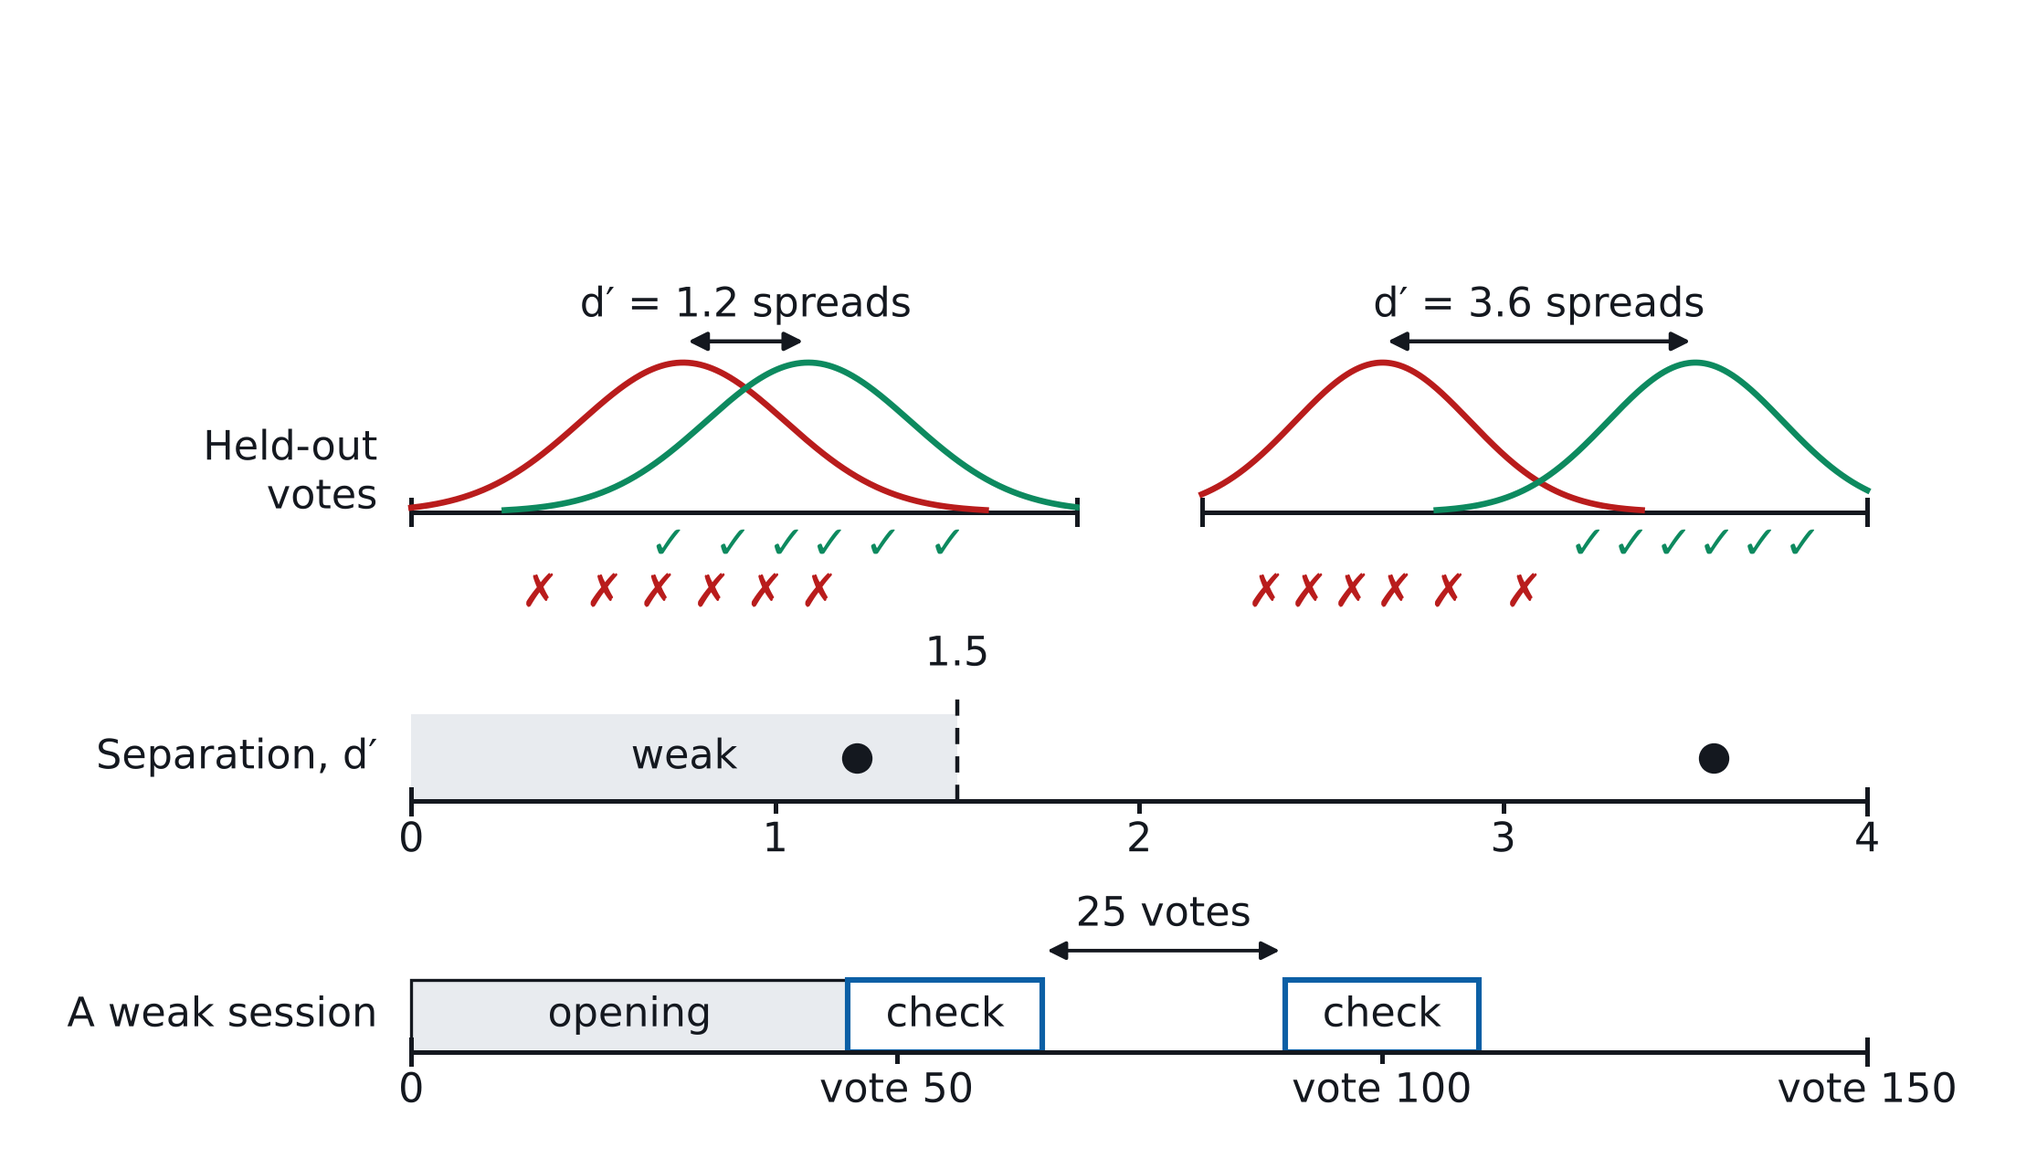
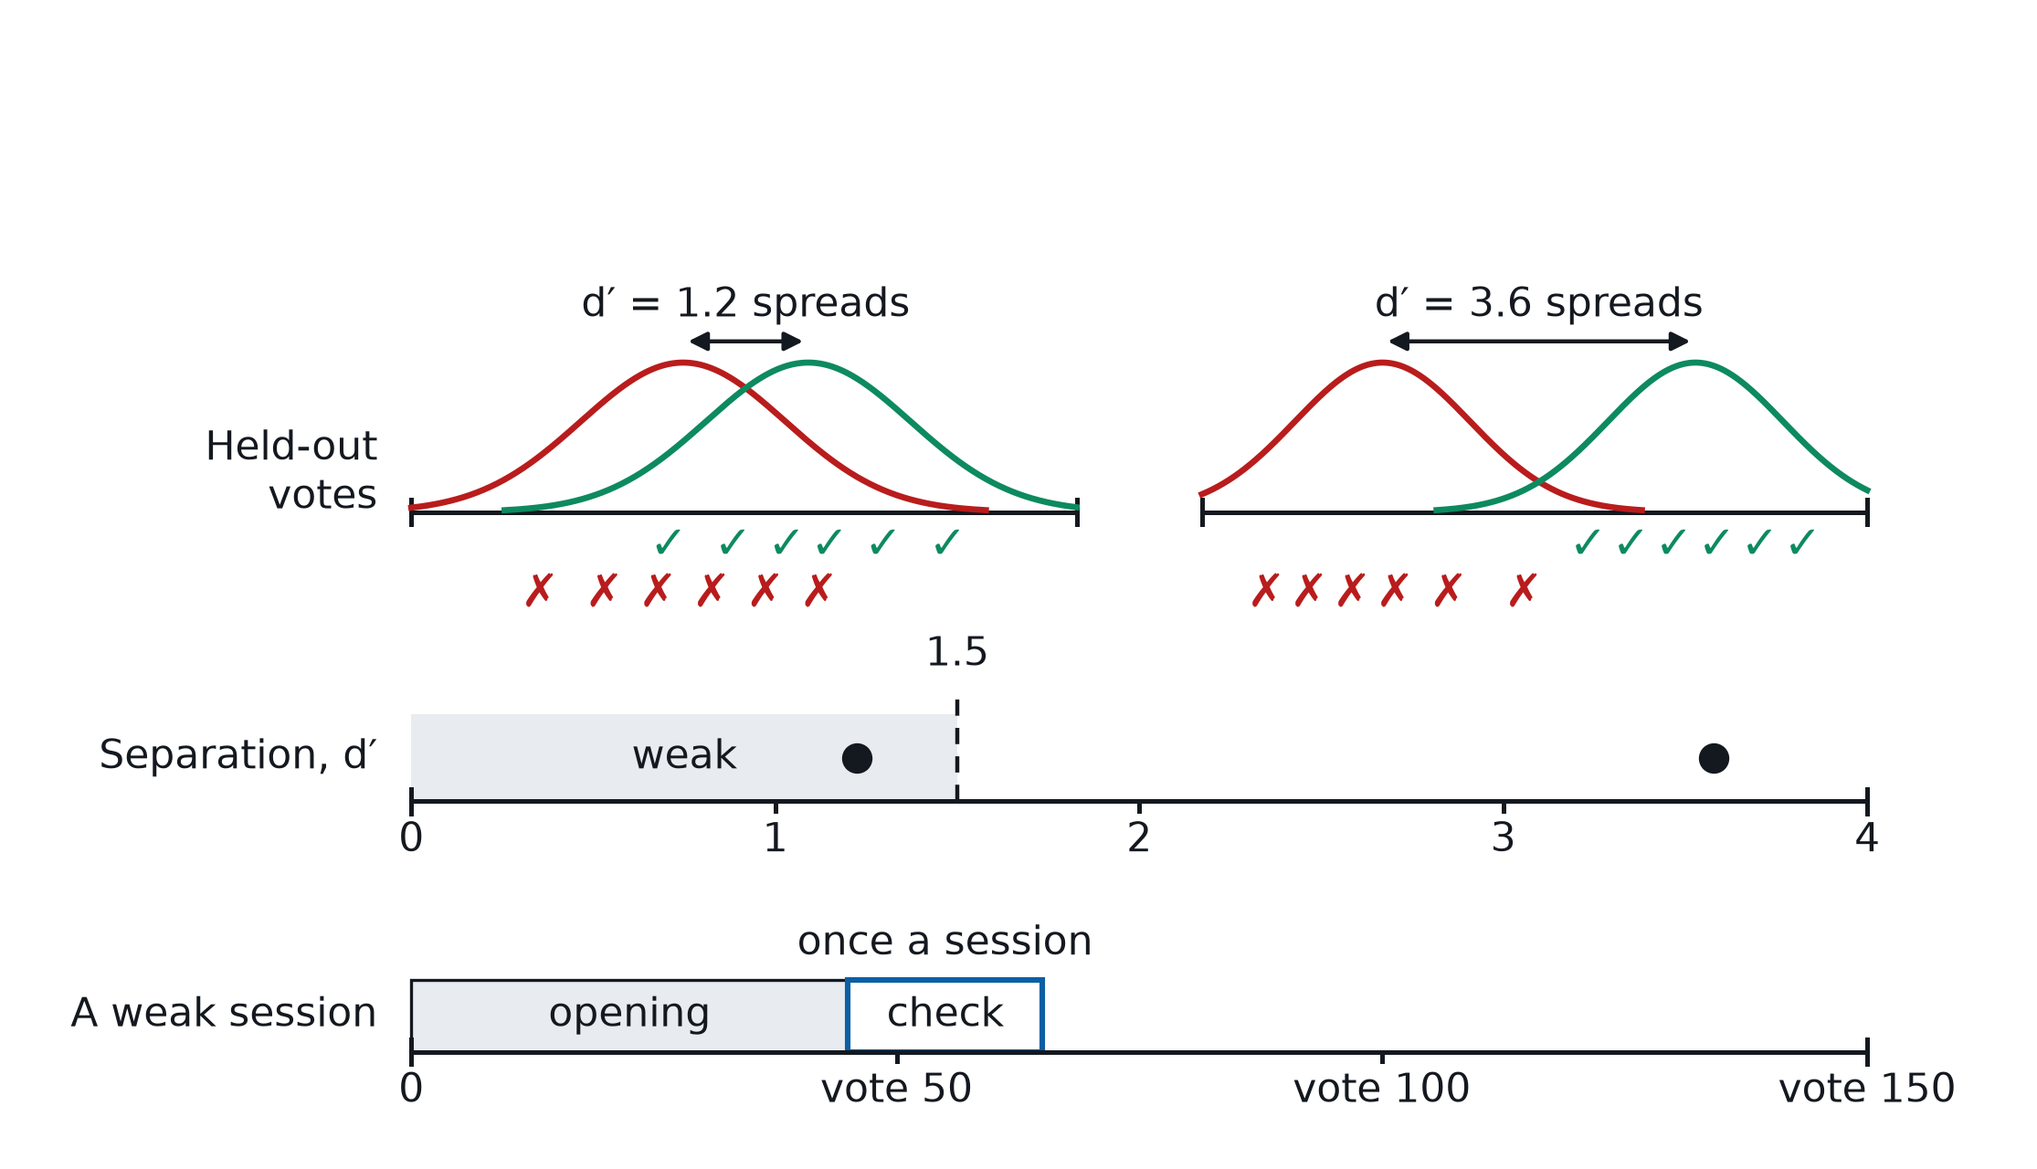
#4909: ship the weak check once a session (owner's choice)
New vtscore.training.thresholds.WEAK_CHECK_REPEAT (None) is weak_check_due's
default cooldown: the weak-separation check is due only while no check has
ended, so Autopilot prompts it at most once a session. WEAK_CHECK_COOLDOWN
stays 25 and now governs only the check before Done (done_check_due). The
harness follows (simulate_voting_iterations weak_repeat defaults to 0, once),
preflight's shipped weak_repeat is 0, and the study launcher pins r25 to 25.

Priced in this PR's report: once matched or beat again-after-25 over clicks
0-200 (+0.0006 / +0.0013 mean F-beta at beta 1 / 4), level after the closing
check, Done at the same click and F-beta, for 24-25 fewer of 200 clicks spent
checking. The server and frontend only read check_due, so neither changes
beyond docs; the Weak Spot slide now draws one check.

Claude-Session: https://claude.ai/code/session_01Q8KvKjgBL7pTwLPQT1g77M

diff --git a/frontend/src/app/utils/line-balance.ts b/frontend/src/app/utils/line-balance.ts
@@ -93,8 +93,8 @@ export interface LineBalance {
   separation: number | null;
   /**
    * The labels separate weakly enough that a spot check is due (#4496): Autopilot runs one. The
-   * server decides (`weak_check_due`): d' below 1.5, from 10 votes on, and 25 votes after the last
-   * check ended.
+   * server decides (`weak_check_due`): d' below 1.5, from 10 votes on, and only while no check has
+   * ended, so once a session (#4909).
    */
   checkDue: boolean;
   /**

diff --git a/slides/figs/src/make-calib-figs.py b/slides/figs/src/make-calib-figs.py
@@ -6685,9 +6685,8 @@ WS_TIME_Y = 0.95
 #: The separation axis's range.
 WS_D_MAX = 4.0
 #: One weak session, in votes: where the opening ends (the median session's
-#: first learned step, #4496), and each check's (start, length). A check runs
-#: about twenty picks; the second starts the shipped cooldown after the first
-#: ends, because the labels still separate weakly then.
+#: first learned step, #4496), and the check's length. A check runs about
+#: twenty picks, once a session (#4909).
 WS_SESSION_VOTES = 150
 WS_OPENING_END = 45
 WS_CHECK_LEN = 20
@@ -6698,8 +6697,9 @@ def weak_spot_fig() -> None:
 
     The separation is d' = (Good mean − Bad mean) / spread of the class model
     the held-out votes imply, computed by the shipped `class_score_model`; the
-    bar, the first vote a check may come at and the cooldown between checks
-    are `WEAK_SEPARATION_D`, `WEAK_CHECK_MIN_VOTES` and `WEAK_CHECK_COOLDOWN`.
+    bar and the first vote a check may come at are `WEAK_SEPARATION_D` and
+    `WEAK_CHECK_MIN_VOTES`, and the check comes once a session
+    (`WEAK_CHECK_REPEAT`, #4909).
     The session row is a schematic of one weak session drawn on those
     constants, not a measured one.
     """
@@ -6779,8 +6779,8 @@ def _ws_axis_row(ax: plt.Axes) -> None:
 
 
 def _ws_session_row(ax: plt.Axes) -> None:
-    """Stage 3: one weak session's votes, with the checks Autopilot runs and the cooldown between them."""
-    from vtscore.training.thresholds.labels_line import WEAK_CHECK_COOLDOWN, WEAK_CHECK_MIN_VOTES  # noqa: PLC0415
+    """Stage 3: one weak session's votes, with the check Autopilot runs once, after the opening."""
+    from vtscore.training.thresholds.labels_line import WEAK_CHECK_MIN_VOTES  # noqa: PLC0415
 
     x0, x1 = WS_PANELS[0][0], WS_PANELS[1][1]
 
@@ -6798,20 +6798,12 @@ def _ws_session_row(ax: plt.Axes) -> None:
                            edgecolor=INK, linewidth=1.2, zorder=2))  # fmt: skip
     ax.text((at(0) + at(WS_OPENING_END)) / 2, WS_TIME_Y + h / 2, "opening", ha="center", va="center", fontsize=16,
             color=INK, zorder=3)  # fmt: skip
-    first = max(WS_OPENING_END, WEAK_CHECK_MIN_VOTES)
-    second = first + WS_CHECK_LEN + WEAK_CHECK_COOLDOWN
-    for start in (first, second):
-        ax.add_patch(Rectangle((at(start), WS_TIME_Y), at(start + WS_CHECK_LEN) - at(start), h, facecolor="white",
-                               edgecolor=BLUE, linewidth=2.2, zorder=2))  # fmt: skip
-        ax.text((at(start) + at(start + WS_CHECK_LEN)) / 2, WS_TIME_Y + h / 2, "check", ha="center", va="center",
-                fontsize=16, color=INK, zorder=3)  # fmt: skip
-    # The cooldown, as a span from one check's end to the next one's start.
-    a, b = at(first + WS_CHECK_LEN), at(second)
-    y = WS_TIME_Y + h + 0.3
-    ax.annotate("", xy=(b, y), xytext=(a, y), arrowprops={"arrowstyle": "<|-|>", "color": INK, "linewidth": 1.4},
-                zorder=4)  # fmt: skip
-    ax.text((a + b) / 2, y + LABEL_GAP, f"{WEAK_CHECK_COOLDOWN} votes", ha="center", va="bottom", fontsize=16,
-            color=INK)  # fmt: skip
+    start = max(WS_OPENING_END, WEAK_CHECK_MIN_VOTES)
+    mid = (at(start) + at(start + WS_CHECK_LEN)) / 2
+    ax.add_patch(Rectangle((at(start), WS_TIME_Y), at(start + WS_CHECK_LEN) - at(start), h, facecolor="white",
+                           edgecolor=BLUE, linewidth=2.2, zorder=2))  # fmt: skip
+    ax.text(mid, WS_TIME_Y + h / 2, "check", ha="center", va="center", fontsize=16, color=INK, zorder=3)
+    ax.text(mid, WS_TIME_Y + h + LABEL_GAP, "once a session", ha="center", va="bottom", fontsize=16, color=INK)
 
 
 def _ws_stage(stage: int) -> plt.Figure:

diff --git a/vtscore/training/thresholds/labels_line.py b/vtscore/training/thresholds/labels_line.py
@@ -105,10 +105,16 @@ WEAK_SEPARATION_D = 1.5
 #: The fewest votes before weak separation makes a spot check due (#4496): the
 #: first few labels separate noisily, and a check needs a line to walk.
 WEAK_CHECK_MIN_VOTES = 10
-#: Votes after a check ends before weak separation makes another due (#4496).
-#: Priced against prompting once: +0.013 to +0.027 at click 150 against +0.007
-#: to +0.010, for 28-35% of a prompted session's clicks spent checking.
+#: Votes after a check ends before the check before Done runs (:func:`done_check_due`, #4496): a check that ended
+#: moments ago has already measured this line.  It was also the weak check's repeat until #4909.
 WEAK_CHECK_COOLDOWN = 25
+#: Votes after a check ends before weak separation makes another due; ``None``: never, so the weak check prompts at
+#: most once a session, and only before any other check has ended (#4909, the owner's choice of 2026-10-15).  #4496
+#: had chosen again after 25 votes, on an app where a check's picks were worth far more than Autopilot's.  At
+#: today's head prompting once matched or beat it: +0.0006 (beta 1) and +0.0013 (beta 4) in mean F-beta over clicks
+#: 0-200, level after the closing check, Done at the same click and F-beta, and 24-25 fewer of 200 clicks spent
+#: checking (``docs/experiments/2026-10-15-weak-repeat-4909/REPORT.md``).
+WEAK_CHECK_REPEAT: int | None = None
 #: Media types whose sessions never get a prompted weak check (#4778, #4799).  A
 #: face search's opening finds the person's few photos before the check could
 #: start (a median of 4 Goods at vote 11), so a check's votes find nothing and
@@ -674,7 +680,7 @@ def weak_check_due(
     *,
     threshold: float = WEAK_SEPARATION_D,
     min_votes: int = WEAK_CHECK_MIN_VOTES,
-    cooldown: int | None = WEAK_CHECK_COOLDOWN,
+    cooldown: int | None = WEAK_CHECK_REPEAT,
 ) -> bool:
     """Whether the labels separate weakly enough that a spot check is due (#4496, the owner's ruling of 2026-10-05).
 
@@ -682,7 +688,8 @@ def weak_check_due(
     *threshold*, at least *min_votes* votes have been cast, and either no
     check has ended yet or *cooldown* votes have been cast since the last one
     ended (*votes_at_last_check*, the vote count when it ended; ``None``
-    before any).  ``cooldown=None`` makes a check due once at most.
+    before any).  ``cooldown=None``, the default (:data:`WEAK_CHECK_REPEAT`,
+    #4909), makes a check due once at most: never after any check has ended.
 
     The app's Autopilot runs the check when it is due; the eval harness's
     default arm (``spot_check="weak"``) runs it where this says, so both read
@@ -963,6 +970,7 @@ __all__ = [
     "RANDOM_BADS_TOP_SHARE",
     "WEAK_CHECK_COOLDOWN",
     "WEAK_CHECK_MIN_VOTES",
+    "WEAK_CHECK_REPEAT",
     "WEAK_SEPARATION_D",
     "WEAK_CHECK_OFF_MEDIA_TYPES",
     "done_check_due",

diff --git a/vtscore/eval/voting_iterations.py b/vtscore/eval/voting_iterations.py
@@ -106,8 +106,8 @@ from vtscore.eval.voting_columns import (
 )
 from vtscore.training.blend_schedules import BlendContext
 from vtscore.training.thresholds import (
-    WEAK_CHECK_COOLDOWN,
     WEAK_CHECK_MIN_VOTES,
+    WEAK_CHECK_REPEAT,
     WEAK_SEPARATION_D,
     LabelsLine,
     LineRanking,
@@ -2663,7 +2663,7 @@ def simulate_voting_iterations(  # noqa: C901
     spot_check: Optional[str] = None,
     weak_separation: float = WEAK_SEPARATION_D,
     weak_min_t: int = WEAK_CHECK_MIN_VOTES,
-    weak_repeat: int = WEAK_CHECK_COOLDOWN,
+    weak_repeat: int = WEAK_CHECK_REPEAT or 0,
     weak_phase: str = "learned",
     done_check: bool = True,
     early_check: Optional[int] = None,
@@ -3239,15 +3239,17 @@ def simulate_voting_iterations(  # noqa: C901
             record on them, at each requested click a round reaches).  It starts
             only when its opening bands fit the voting budget left, and a deeper
             band that would overrun the budget ends it there, as a user closing
-            the step does, so a run's clicks still end at *max_steps*.  With
-            *weak_repeat* > 0 the prompt returns once that many votes have
-            been cast since the last prompted check ended, while the labels
-            still separate weakly; 0 prompts once.  Ignored on the Inclusion
+            the step does, so a run's clicks still end at *max_steps*.  It
+            prompts once, and only while no check has ended (*weak_repeat* 0,
+            the app since #4909); with *weak_repeat* > 0 the prompt returns
+            once that many votes have been cast since the last check ended,
+            while the labels still separate weakly.  Ignored on the Inclusion
             arm, and when nothing is left unvoted to check.
         weak_separation: The d' below which ``spot_check="weak"`` prompts (the app's ``WEAK_SEPARATION_D``).
         weak_min_t: The fewest votes before ``spot_check="weak"`` prompts (``WEAK_CHECK_MIN_VOTES``).
-        weak_repeat: Votes after a prompted check before it may prompt again
-            (``WEAK_CHECK_COOLDOWN``); 0 prompts once, the priced alternative.
+        weak_repeat: Votes after a check ends before the weak check may
+            prompt again; 0 (the default, the app's ``WEAK_CHECK_REPEAT``,
+            ``None``, #4909) prompts once.  25 is the app before #4909.
         weak_phase: Where in Autopilot's flow ``spot_check="weak"`` may prompt.
             ``"learned"`` (the default, the app's) or ``"any"`` (the arm #4496
             priced first): ``"learned"`` prompts only once the flow has left

diff --git a/tests_lib/sorting/test_labels_line.py b/tests_lib/sorting/test_labels_line.py
@@ -35,6 +35,7 @@ from vtscore.training.thresholds.labels_line import (
     MIN_LOGIT_SIGMA,
     WEAK_CHECK_COOLDOWN,
     WEAK_CHECK_MIN_VOTES,
+    WEAK_CHECK_REPEAT,
     WEAK_SEPARATION_D,
     WEAK_CHECK_OFF_MEDIA_TYPES,
     _line_on,
@@ -469,15 +470,21 @@ class TestWeakCheckDue:
         assert not weak_check_due(None, 40, None), "no labels line yet"
         assert not weak_check_due(float("nan"), 40, None)
 
-    def test_it_comes_back_a_cooldown_after_the_last_check_ended(self):
-        ended = 30
-        assert not weak_check_due(1.0, ended + WEAK_CHECK_COOLDOWN - 1, ended)
-        assert weak_check_due(1.0, ended + WEAK_CHECK_COOLDOWN, ended)
-        assert not weak_check_due(3.0, ended + 100, ended), "not while separation is strong"
+    def test_by_default_it_is_due_once_never_after_a_check_has_ended(self):
+        """#4909: once a session; the check before Done ending first counts too."""
+        assert WEAK_CHECK_REPEAT is None
+        assert weak_check_due(1.0, 20, None)
+        assert not weak_check_due(1.0, 21, 20), "a check just ended"
+        assert not weak_check_due(1.0, 500, 20), "nor ever again"
 
-    def test_no_cooldown_makes_it_due_once(self):
-        assert weak_check_due(1.0, 20, None, cooldown=None)
-        assert not weak_check_due(1.0, 500, 20, cooldown=None)
+    def test_a_repeat_comes_back_that_many_votes_after_the_last_check_ended(self):
+        """The arm #4496 shipped and #4909 retired: again 25 votes after a check, while separation stays weak."""
+        ended = 30
+        assert not weak_check_due(1.0, ended + WEAK_CHECK_COOLDOWN - 1, ended, cooldown=WEAK_CHECK_COOLDOWN)
+        assert weak_check_due(1.0, ended + WEAK_CHECK_COOLDOWN, ended, cooldown=WEAK_CHECK_COOLDOWN)
+        assert not weak_check_due(3.0, ended + 100, ended, cooldown=WEAK_CHECK_COOLDOWN), (
+            "not while separation is strong"
+        )
 
 
 class TestDoneCheckDue:

diff --git a/vtscore/state/core.py b/vtscore/state/core.py
@@ -1109,8 +1109,9 @@ class DetectorContext:
         # switch, a fresh Find pass.
         "line_test",  # LineTest | None
         # How many votes the detector held when its last spot check ended,
-        # finished or cancelled: the weak-separation rule's cooldown counts
-        # from it (``weak_check_due``, #4496).  Goes with the check.
+        # finished or cancelled: the weak-separation check never prompts once
+        # it is set (``weak_check_due``, #4909), and the check before Done's
+        # cooldown counts from it (``done_check_due``).  Goes with the check.
         "check_ended_votes",  # int | None
         # The line the labels imply (``LabelsLine``, #4452): the class model
         # the last retrain's calibration folds fitted from the labels, and the
@@ -1843,7 +1844,7 @@ def detector_check_prompt(ctx: "DetectorContext", n_votes: int) -> dict[str, Any
 
     ``separation`` is the labels line's d' (``None`` before a retrain has drawn
     one, or when it is unbounded); ``check_due`` is :func:`weak_check_due` on
-    it, counted from the vote total when the last check ended, and
+    it, never once a check has ended (prompted once, #4909), and
     ``done_check_due`` is :func:`done_check_due` from the same count: whether
     the check Autopilot runs once its lights go green should run, or skip
     because one ended moments ago.  Neither is due in Find, which runs no

diff --git a/tests_lib/sorting/test_balance_wiring.py b/tests_lib/sorting/test_balance_wiring.py
@@ -284,13 +284,16 @@ class TestTheWeakCheckPrompt:
             state = detector_balance_state(ctx, 1.0)
             assert state["checkable"] is False and state["check_due"] is False
 
-    def test_it_waits_a_cooldown_after_the_last_check_ended(self):
-        ctx = self._weak(_ctx("det-weak-cooldown"))
+    def test_it_prompts_once_never_after_a_check_has_ended(self):
+        """#4909: once a session, however long ago the check ended."""
+        ctx = self._weak(_ctx("det-weak-once"))
         n = len(human_voted_ids(ctx))
+        assert ctx.check_ended_votes is None
+        assert detector_balance_state(ctx, 1.0)["check_due"] is True
         ctx.check_ended_votes = n
         assert detector_balance_state(ctx, 1.0)["check_due"] is False
-        ctx.check_ended_votes = n - WEAK_CHECK_COOLDOWN
-        assert detector_balance_state(ctx, 1.0)["check_due"] is True
+        ctx.check_ended_votes = n - 10 * WEAK_CHECK_COOLDOWN
+        assert detector_balance_state(ctx, 1.0)["check_due"] is False
 
     def test_never_due_on_face_crops_but_separation_still_reported(self):
         """#4799: a face detector never prompts (#4778 priced it a loss); its d' is still shown."""

diff --git a/tests_lib/meta/test_preflight_knobs.py b/tests_lib/meta/test_preflight_knobs.py
@@ -125,7 +125,7 @@ _DIVERGENT = [
     ({"CALIB_SPOT_CHECK": "off"}, "spot_check"),
     ({"CALIB_WEAK_D": "0.75"}, "weak_d"),
     ({"CALIB_WEAK_MIN_T": "3"}, "weak_min_t"),
-    ({"CALIB_WEAK_REPEAT": "0"}, "weak_repeat"),
+    ({"CALIB_WEAK_REPEAT": "25"}, "weak_repeat"),
     ({"CALIB_WEAK_PHASE": "any"}, "weak_phase"),
     ({"CALIB_ACQ_INCLUSION_OFFSET": "0", "CALIB_ACQ_RANK_PERCENTILE": "0.02"}, "acq_rank_percentile"),
     ({"CALIB_ACQ_INCLUSION_OFFSET": "0", "CALIB_ACQ_P_CROSSING": "0.5"}, "acq_p_crossing"),
@@ -151,7 +151,7 @@ def test_pins_at_the_shipped_values_pass(check):
         CALIB_SPOT_CHECK="weak",
         CALIB_WEAK_D="%g" % T.WEAK_SEPARATION_D,
         CALIB_WEAK_MIN_T=str(T.WEAK_CHECK_MIN_VOTES),
-        CALIB_WEAK_REPEAT=str(T.WEAK_CHECK_COOLDOWN),
+        CALIB_WEAK_REPEAT="0",
         CALIB_WEAK_PHASE="learned",
         CALIB_WALK_PICKS="0",
         CALIB_WALK_TOL="0",

diff --git a/scripts/experiments/calibration/experiment_config.py b/scripts/experiments/calibration/experiment_config.py
@@ -1095,7 +1095,7 @@ WALK_GUARD = _opt_float("CALIB_WALK_GUARD")
 WALK_SHAPE = os.environ.get("CALIB_WALK_SHAPE", "").strip().lower() or None
 #: When the simulated user checks (#4496): unset is the harness's default, the app's for the cell's medias (``weak``:
 #: the end-of-run check plus the one Autopilot runs at the first click from ``CALIB_WEAK_MIN_T`` whose labels separate
-#: weakly, d' below ``CALIB_WEAK_D``, and again ``CALIB_WEAK_REPEAT`` votes after it ends, 0 = once; unset, the app's
+#: weakly, d' below ``CALIB_WEAK_D``, and again ``CALIB_WEAK_REPEAT`` votes after it ends, 0 = once (the app's since #4909); unset, the app's
 #: constants - but ``end`` on face crops, where the app never prompts, #4799); ``end`` (the end-of-run check only,
 #: the pre-#4496 harness and the face path's), ``weak`` or ``off``.
 SPOT_CHECK = os.environ.get("CALIB_SPOT_CHECK", "").strip().lower() or None

diff --git a/tests_lib/detectors/test_eval_balance_arm.py b/tests_lib/detectors/test_eval_balance_arm.py
@@ -26,8 +26,8 @@ from vtscore.training.thresholds import (
     BALANCE_UNCHECKED,
     DEFAULT_BETA,
     NO_BALANCE,
-    WEAK_CHECK_COOLDOWN,
     WEAK_CHECK_MIN_VOTES,
+    WEAK_CHECK_REPEAT,
     WEAK_SEPARATION_D,
     balance_schedule,
 )
@@ -441,7 +441,8 @@ class TestTheWeakSeparationPrompt:
         assert production_spot_check({}) == "weak"
         assert params["weak_separation"].default == WEAK_SEPARATION_D
         assert params["weak_min_t"].default == WEAK_CHECK_MIN_VOTES
-        assert params["weak_repeat"].default == WEAK_CHECK_COOLDOWN
+        assert WEAK_CHECK_REPEAT is None, "the app prompts once (#4909)"
+        assert params["weak_repeat"].default == 0, "the harness's once"
         assert params["weak_phase"].default == "learned", "the app trains no detector on Autopilot's opening"
 
     def test_by_default_face_crops_never_prompt_and_other_media_do(self):

diff --git a/scripts/experiments/calibration/preflight_knobs.py b/scripts/experiments/calibration/preflight_knobs.py
@@ -413,7 +413,8 @@ def probe(C: Any) -> list[str]:
     for knob, var, value, param, shipped in (
         ("weak_d", "CALIB_WEAK_D", C.WEAK_D, "weak_separation", T.WEAK_SEPARATION_D),
         ("weak_min_t", "CALIB_WEAK_MIN_T", C.WEAK_MIN_T, "weak_min_t", T.WEAK_CHECK_MIN_VOTES),
-        ("weak_repeat", "CALIB_WEAK_REPEAT", C.WEAK_REPEAT, "weak_repeat", T.WEAK_CHECK_COOLDOWN),
+        # The app's None (once, #4909) is the harness's 0.
+        ("weak_repeat", "CALIB_WEAK_REPEAT", C.WEAK_REPEAT, "weak_repeat", T.WEAK_CHECK_REPEAT or 0),
     ):
         resolved(knob, var, value if value is not None else harness_default(param), shipped)
     # The app has no detector to read separation from during its opening, so it

diff --git a/vtscore/training/thresholds/__init__.py b/vtscore/training/thresholds/__init__.py
@@ -302,6 +302,7 @@ from vtscore.training.thresholds.labels_line import (
     WEAK_CHECK_COOLDOWN,
     WEAK_CHECK_MIN_VOTES,
     WEAK_CHECK_OFF_MEDIA_TYPES,
+    WEAK_CHECK_REPEAT,
     WEAK_SEPARATION_D,
     done_check_due,
     estimate_positives,
@@ -378,6 +379,7 @@ __all__ = [
     "WEAK_CHECK_COOLDOWN",
     "WEAK_CHECK_MIN_VOTES",
     "WEAK_CHECK_OFF_MEDIA_TYPES",
+    "WEAK_CHECK_REPEAT",
     "WEAK_SEPARATION_D",
     "HEAD_COUNT_BADS",
     "HEAD_COUNT_GOODS",
